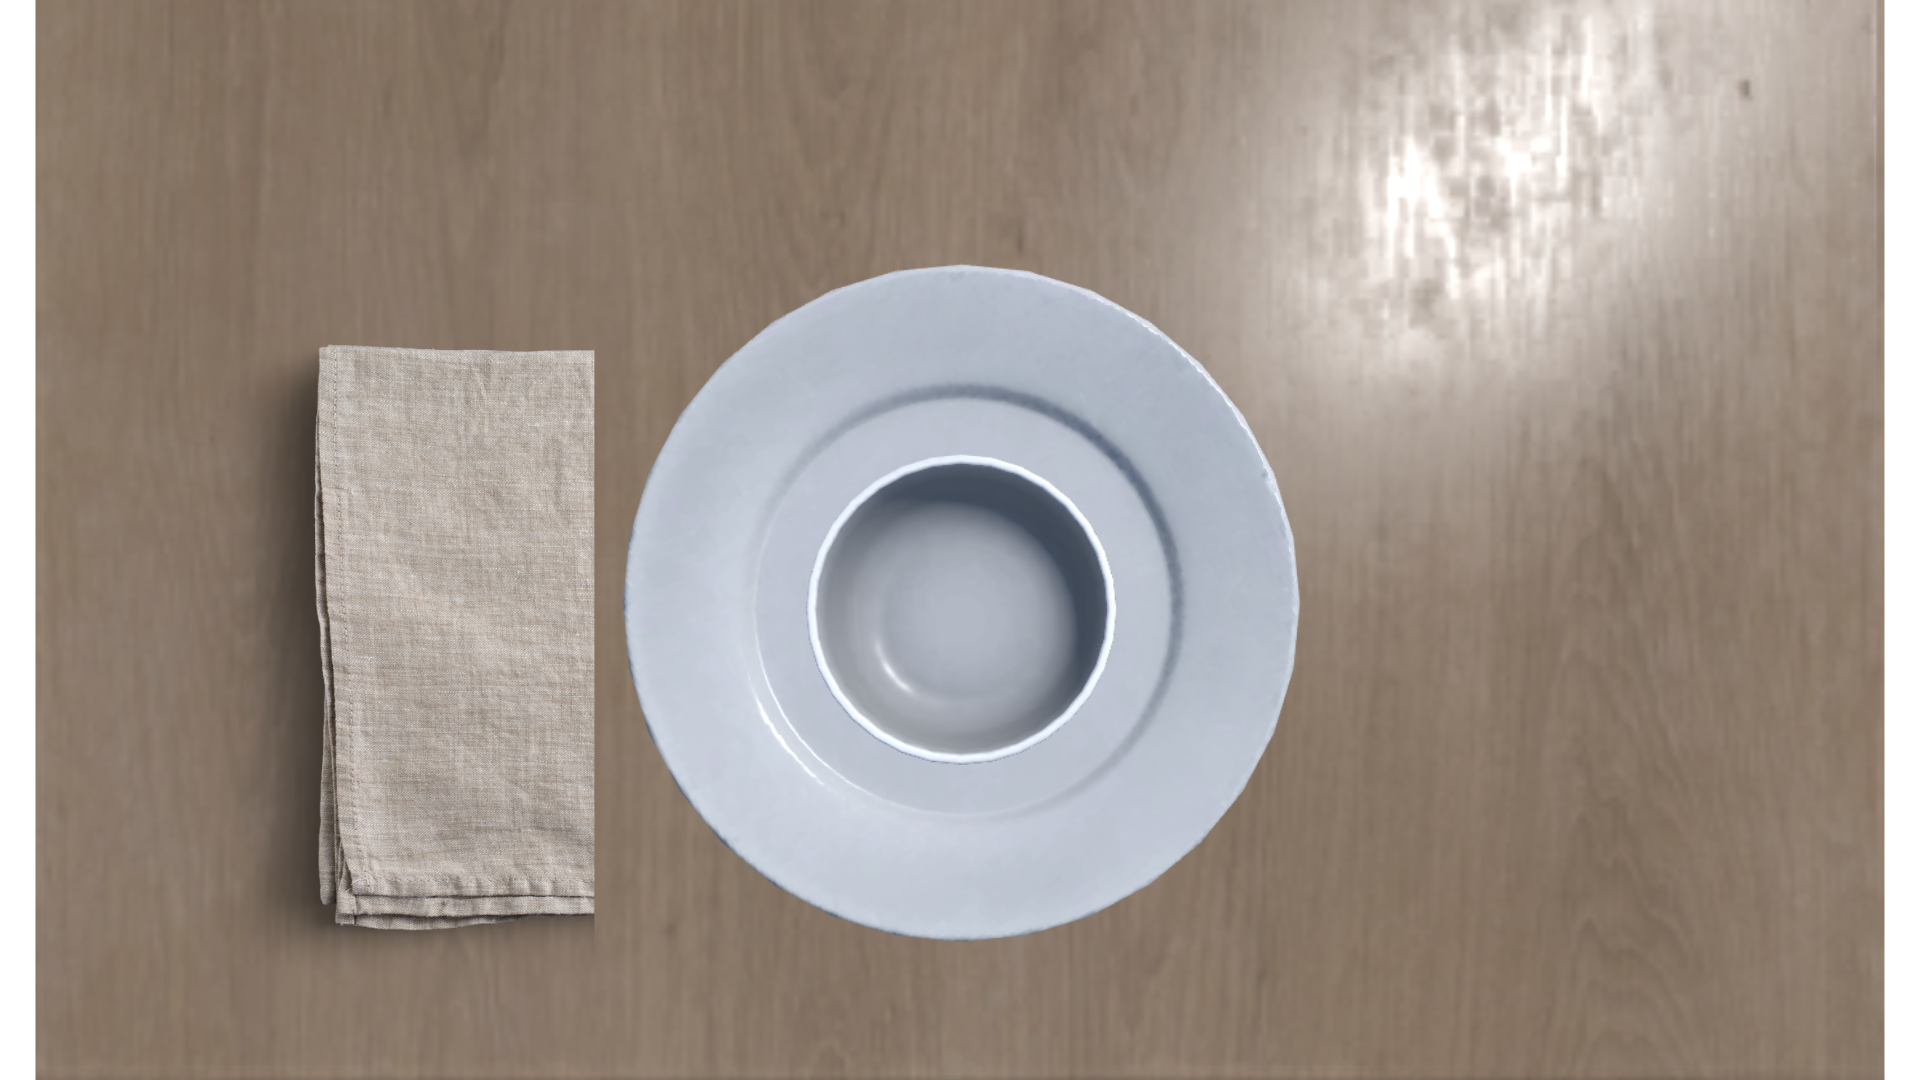
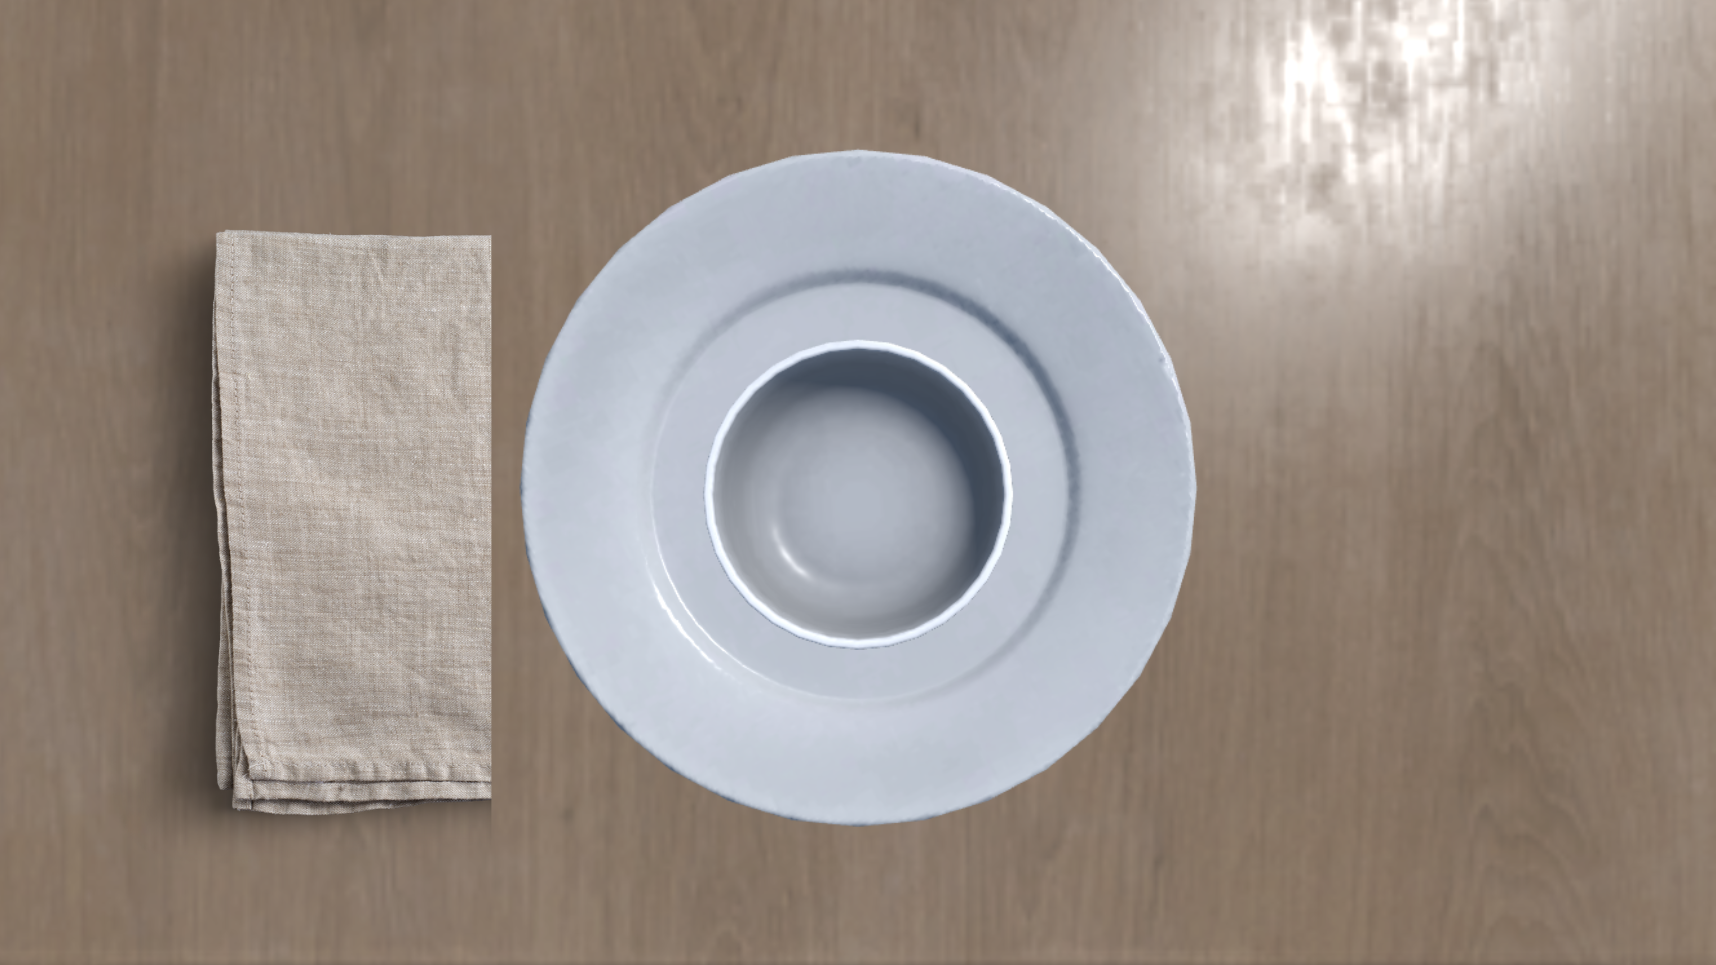
background img set

diff --git a/client/components/GamePopups/Matching.tsx b/client/components/GamePopups/Matching.tsx
@@ -38,33 +38,36 @@ export default function Matching({ setMatching, win, setWin }: Props) {
   }
 
   return (
-    <>
-      <h1>Matching</h1>
-      <button className="closeButton" onClick={() => setMatching(false)}>
-        x
-      </button>
-      <div className="matching">
-        {arr.map((item, index) => (
-          <div key={index} className="item">
-            <p>{item}</p>
-            {index === 0 ? (
-              <button onClick={() => handleClick(index, 1)}>{'>'}</button>
-            ) : index === arr.length - 1 ? (
-              <button onClick={() => handleClick(index, -1)}>{'<'}</button>
-            ) : (
-              <div>
-                <button onClick={() => handleClick(index, -1)}>{'<'}</button>
+    <div className="match-up-game">
+      <div className="plate-game">
+        <div>
+          <button className="closeButton" onClick={() => setMatching(false)}>
+            x
+          </button>
+
+          {arr.map((item, index) => (
+            <div key={index} className="item">
+              <p>{item}</p>
+              {index === 0 ? (
                 <button onClick={() => handleClick(index, 1)}>{'>'}</button>
-              </div>
-            )}
-          </div>
-        ))}
+              ) : index === arr.length - 1 ? (
+                <button onClick={() => handleClick(index, -1)}>{'<'}</button>
+              ) : (
+                <div>
+                  <button onClick={() => handleClick(index, -1)}>{'<'}</button>
+                  <button onClick={() => handleClick(index, 1)}>{'>'}</button>
+                </div>
+              )}
+            </div>
+          ))}
+
+          {win ? (
+            <p>go get the key</p>
+          ) : (
+            <button onClick={() => handleCheck()}>Check</button>
+          )}
+        </div>
       </div>
-      {win ? (
-        <p>go get the key</p>
-      ) : (
-        <button onClick={() => handleCheck()}>Check</button>
-      )}
-    </>
+    </div>
   )
 }

diff --git a/client/styles/matching.css b/client/styles/matching.css
@@ -2,14 +2,25 @@
   display: flex;
   flex-direction: column;
   border: 2px dotted blue;
-
-  /* border-style: dotted;
-  border-width: 1px;
-  border-color: black; */
 }
 
 .matching {
   border: 1px solid black;
   display: flex;
   flex-direction: row;
+  align-self: center;
+}
+
+.plate-game {
+  height: 45rem;
+  width: 90rem;
+  padding: 0;
+  margin: 0 auto;
+  background-image: url('match-up/plate-game.png');
+  background-size: cover;
+  background-position: center;
+}
+
+.match-up-game {
+  text-align: center;
 }
